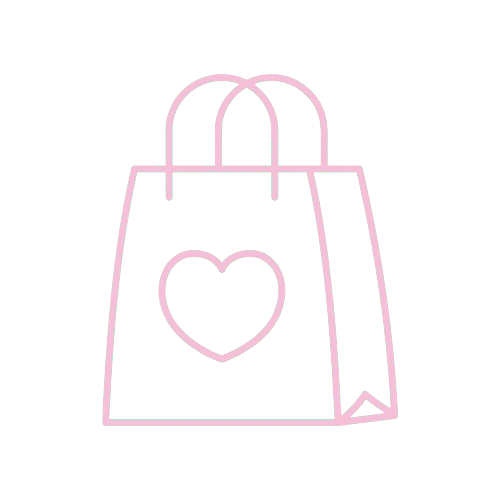
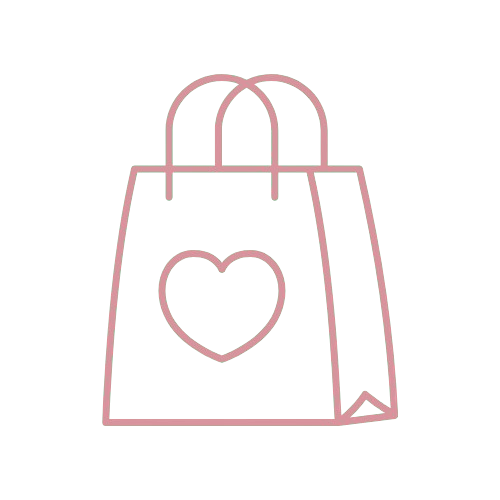
feat: changed color pallete and added a brush background

Changed region(s): [[0.18, 0.15, 0.81, 0.87], [0.3, 0.48, 0.57, 0.72]]

diff --git a/src/components/Logotipo_square.jsx b/src/components/Logotipo_square.jsx
@@ -1,10 +1,16 @@
 import '../../src/App.css';
 import leafVector from '../../src/assets/leaf_vector.svg';
+import paint_brush from '../assets/paint_brush.png'
 
 function Logotipo_square() {
     return (
         <>
-        <div className='bg-white w-[340px] h-[200px] rounded-[60px] flex justify-center pt-4 overflow-hidden lg:w-[500px] lg:h-[250px] lg:pt-4 lg:pb-4 sm:rounded-[60px] container'>
+        <div className="relative bg-[#ffecf1] w-[340px] h-[200px] rounded-[60px] flex justify-center overflow-hidden lg:w-[500px] lg:h-[250px] lg:pt-4 lg:pb-4 sm:rounded-[60px]">
+            <img
+            src={paint_brush}
+            className="absolute w-9/12  top-1/2 left-1/2 transform -translate-x-1/2 -translate-y-1/2"
+            
+            />
             <p 
               className='relative font_logotipo text-[52px] mt-6 mr-32 lg:text-[75px] shrink-0'>
                 The tote

diff --git a/tailwind.config.js b/tailwind.config.js
@@ -7,12 +7,12 @@ export default {
   theme: {
     extend: {
       colors: {
-        "TD-LightPink": "#ffecf1",
-        "TD-SquarePink": "#fcb8d6",
-        "TD-DarkSquarePink": "#b15983",
-        "TD-BigSquarePink": "#ffd5e8",
-        'TD-HoverPink1': '#c37896',
-        'TD-HoverPink2': '#fcc2dc',
+        "TD-LightPink": "#e1cdc3",
+        "TD-SquarePink": "#d7949c",
+        "TD-DarkSquarePink": "#993b46",
+        "TD-BigSquarePink": "#d599A0",
+        'TD-HoverPink1': '#a8575f',
+        'TD-HoverPink2': '#e2a8b0',
       },
       screens: {
         'phone': {'max': '900px'}, // Applies to anything below 640px
